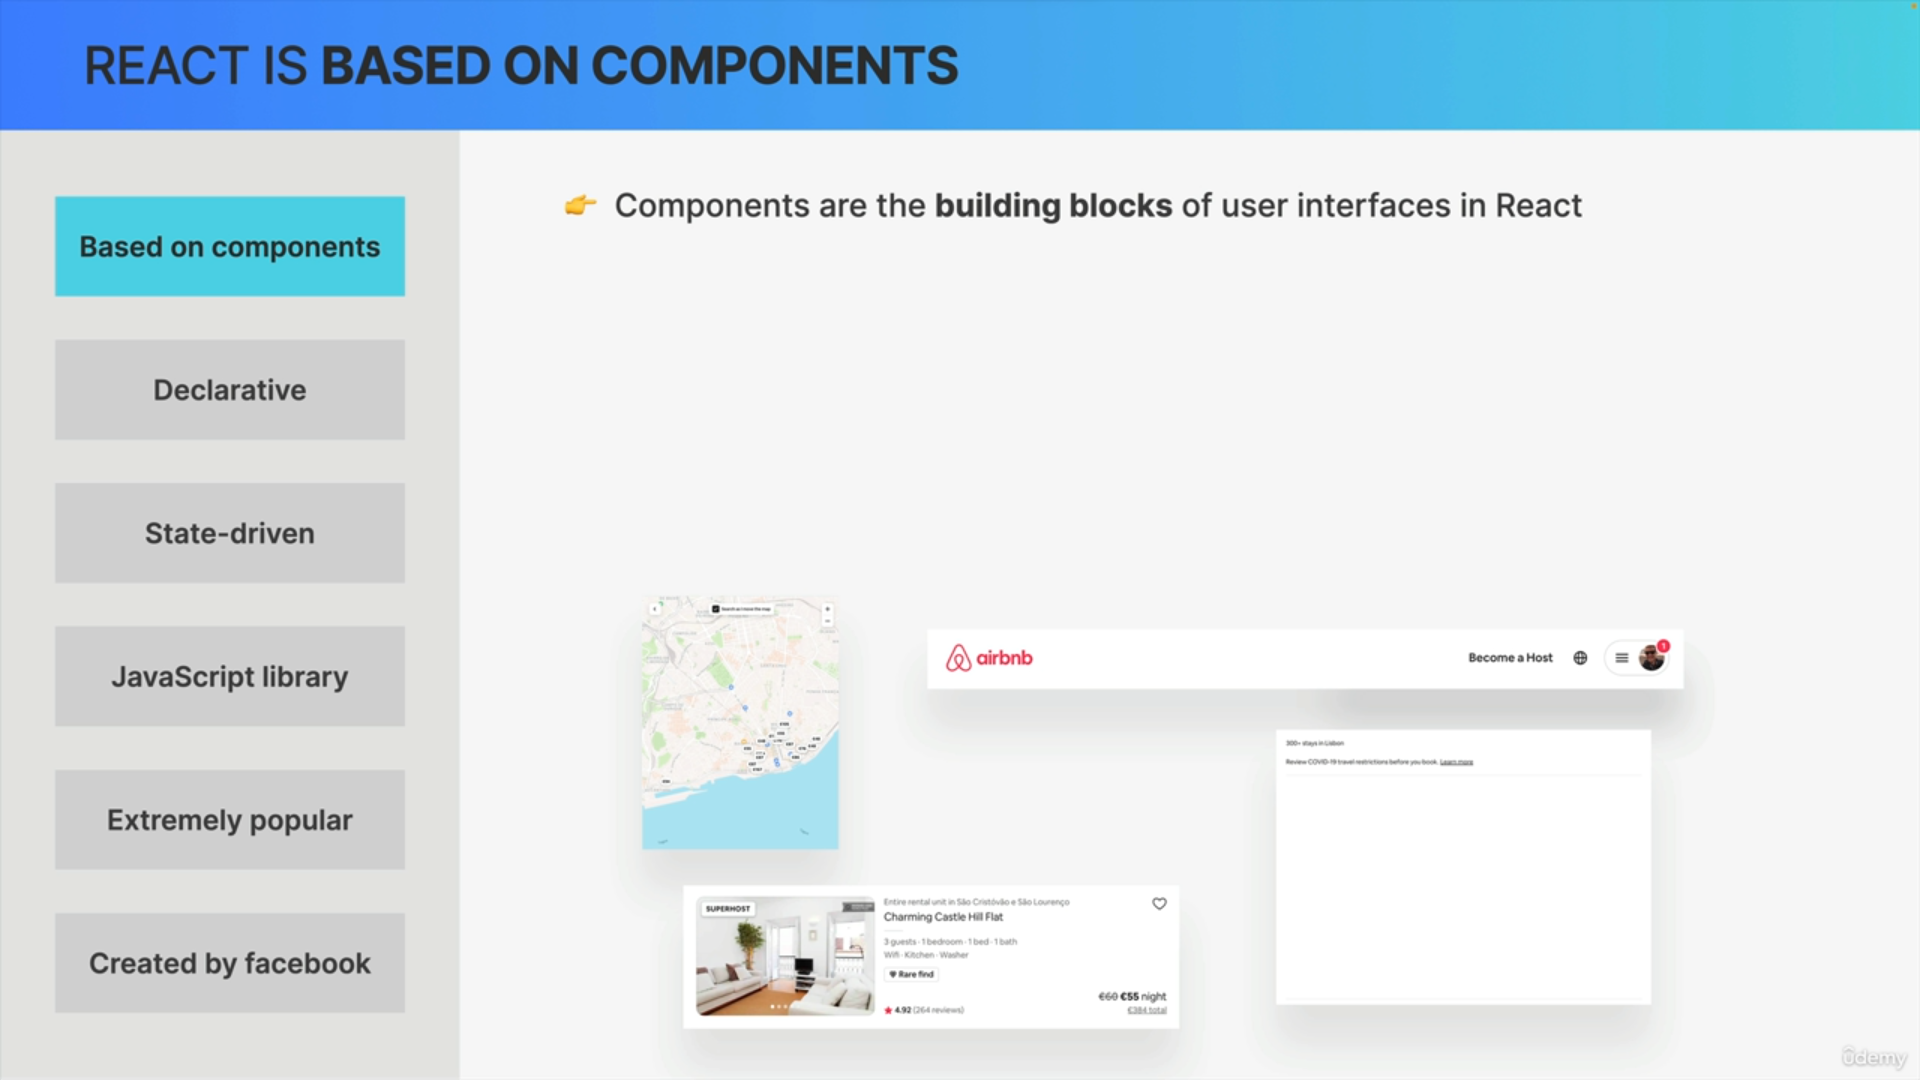
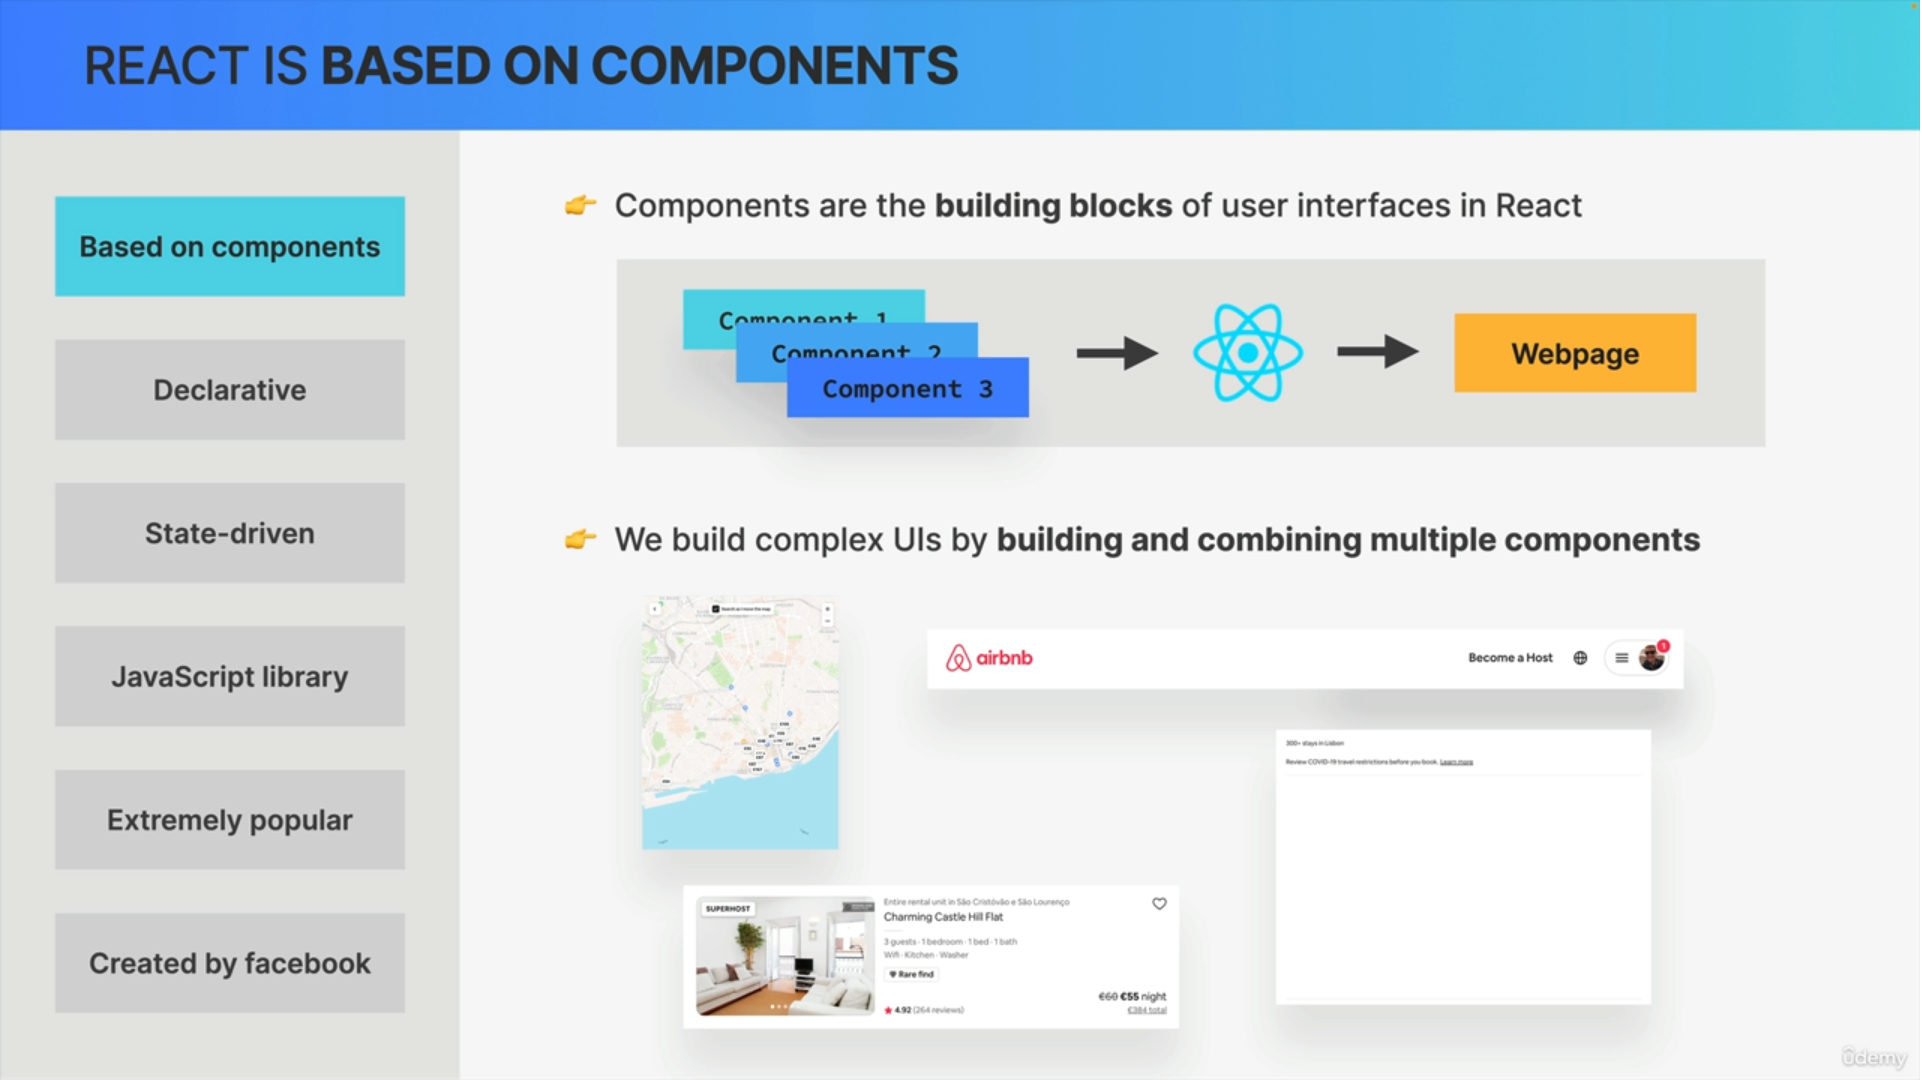
Completed what is react

Changed region(s): [[0.3434, 0.2444, 0.5619, 0.4278], [0.5619, 0.275, 0.9053, 0.3972], [0.281, 0.4889, 0.9053, 0.5194]]

diff --git a/16 ReactJs/__Documentation_React.md b/16 ReactJs/__Documentation_React.md
@@ -1,17 +1,41 @@
 ## 📘Why we require React
 * Server-Side-Rendering vs Client-Side-Rendering
+
 ![Image](./images/why-require-of-react.png)
 
 * Example of UI in sync with Data
+
 ![Image](./images/ui-in-sync-data.png)
 
 * Problem with Vanilla Javascript
+  
 ![Image](./images/problem-with-vanilla-js.png)
 
 * Why Do Front-End Frame-Works Exist ?
+
 ![Image](./images/why-do-front-end-exist.png)
 
 ## 📘What is react
-* React is Javascript Library for building user interfaces
+* **React is Javascript Library for building user interfaces**
+
 ![1](./images/what-is-react.png)
+
+* Based on Components
+
 ![2](./images/component-based.png)
+
+* Declarative
+
+![3](./images/declarative.png)
+
+* State-Driven
+
+![4](./images/state-driven.png)
+
+* Javascript-library
+
+![5](./images/react-library.png)
+
+* React Summary
+
+![6](./images/summary.png)
